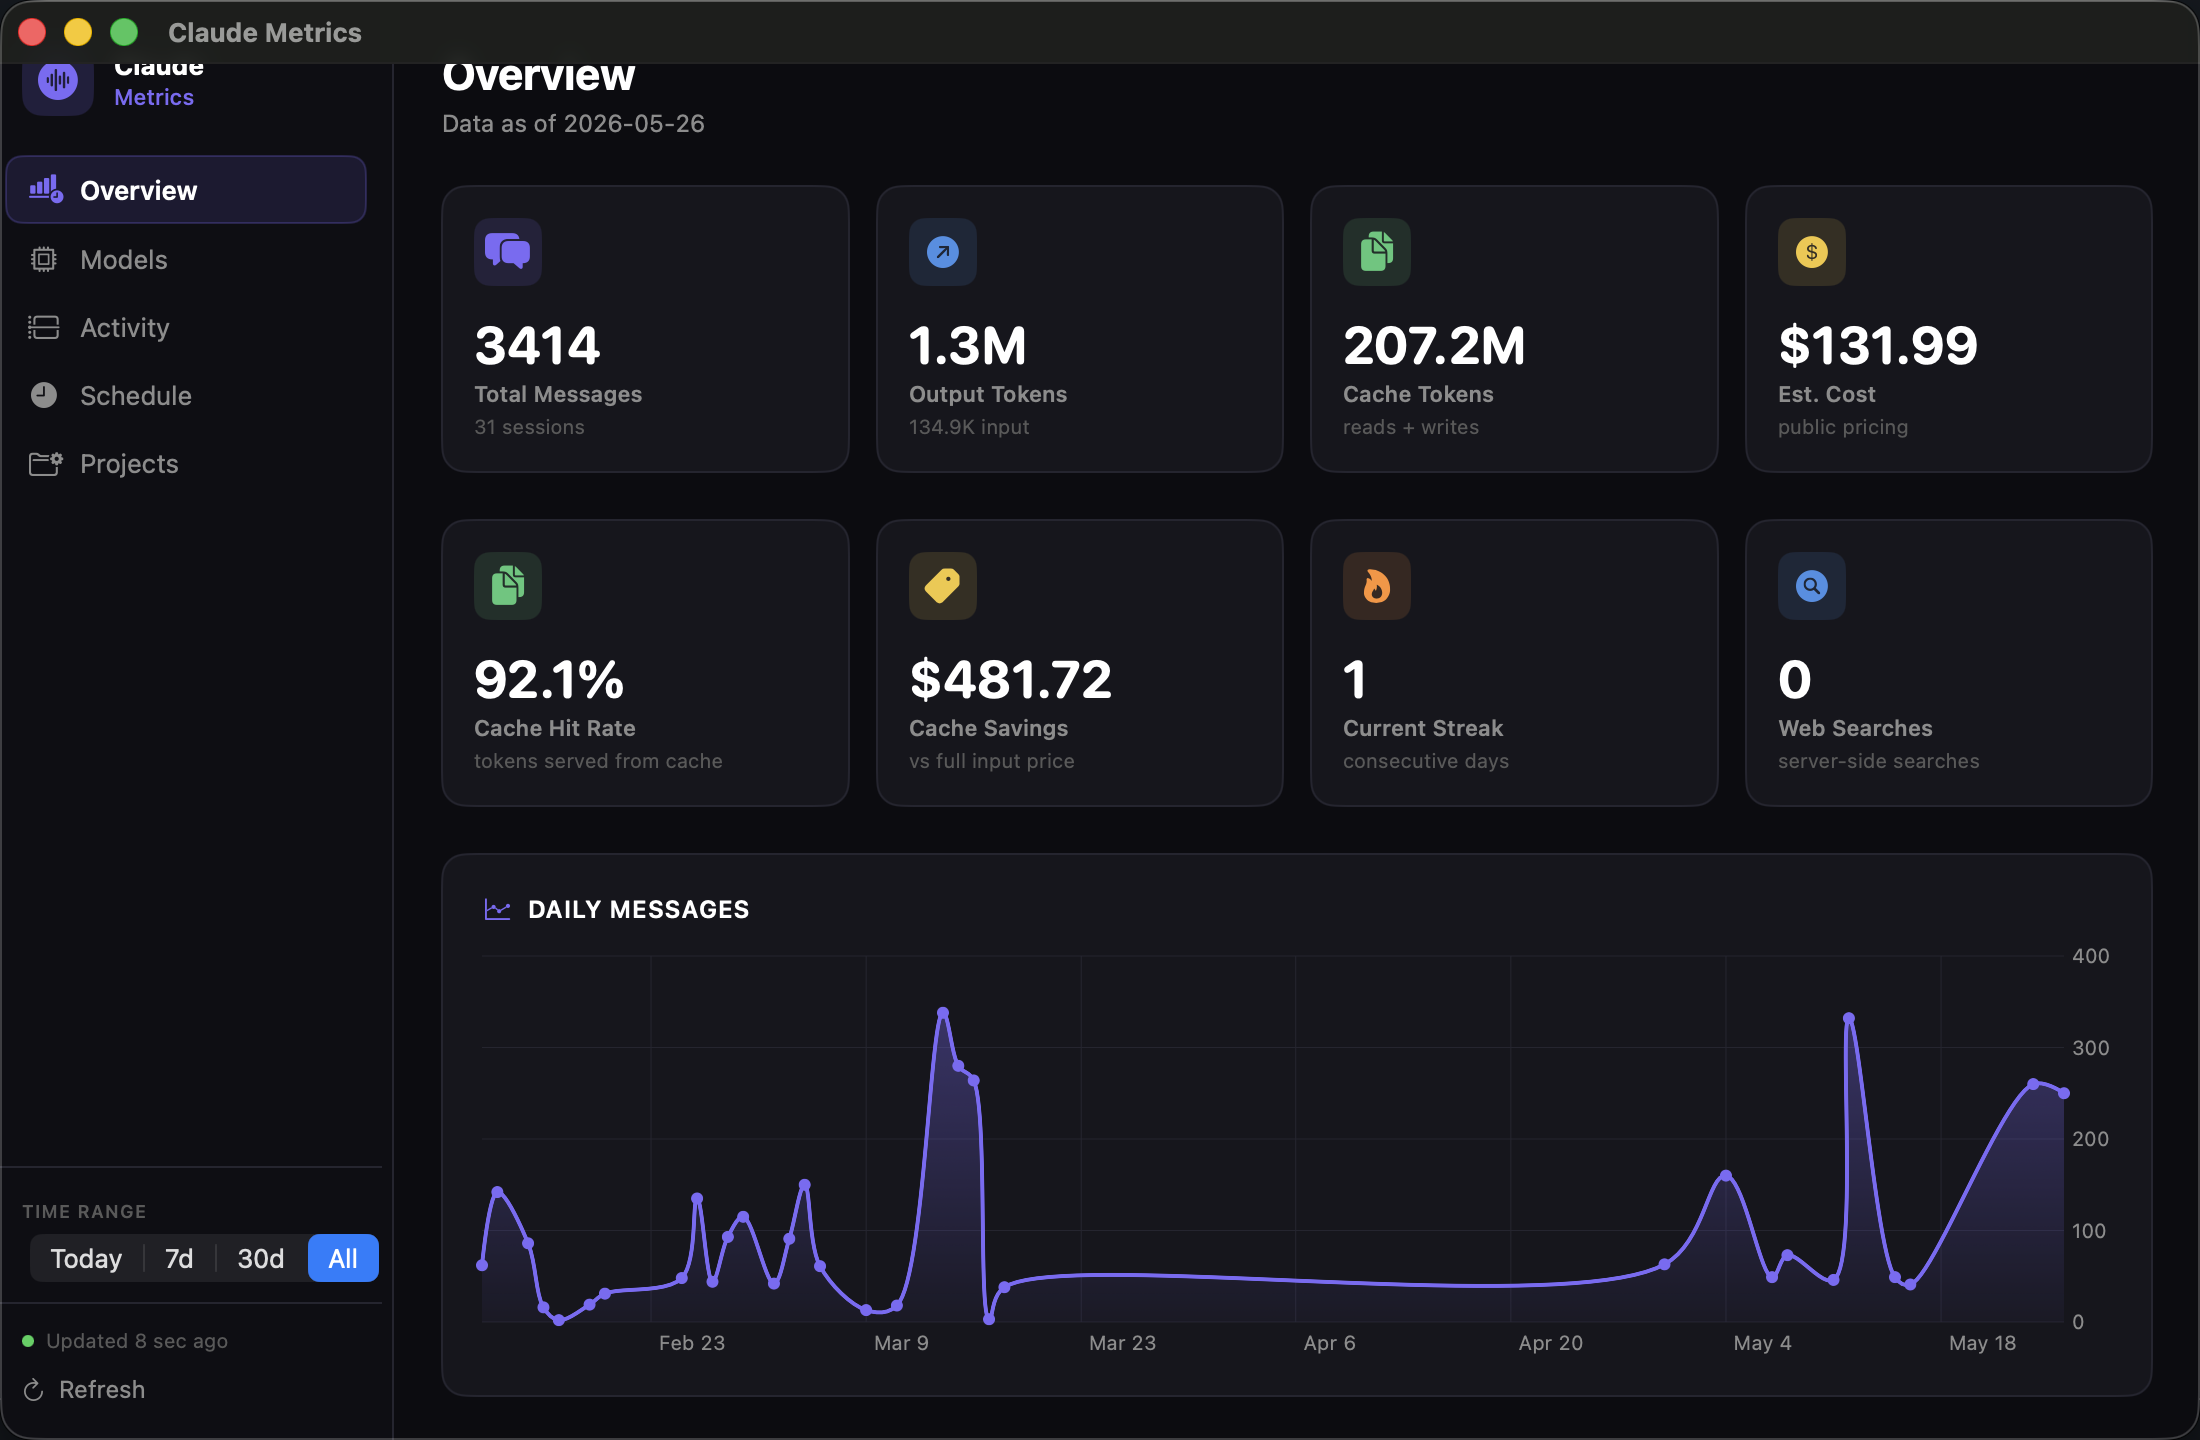
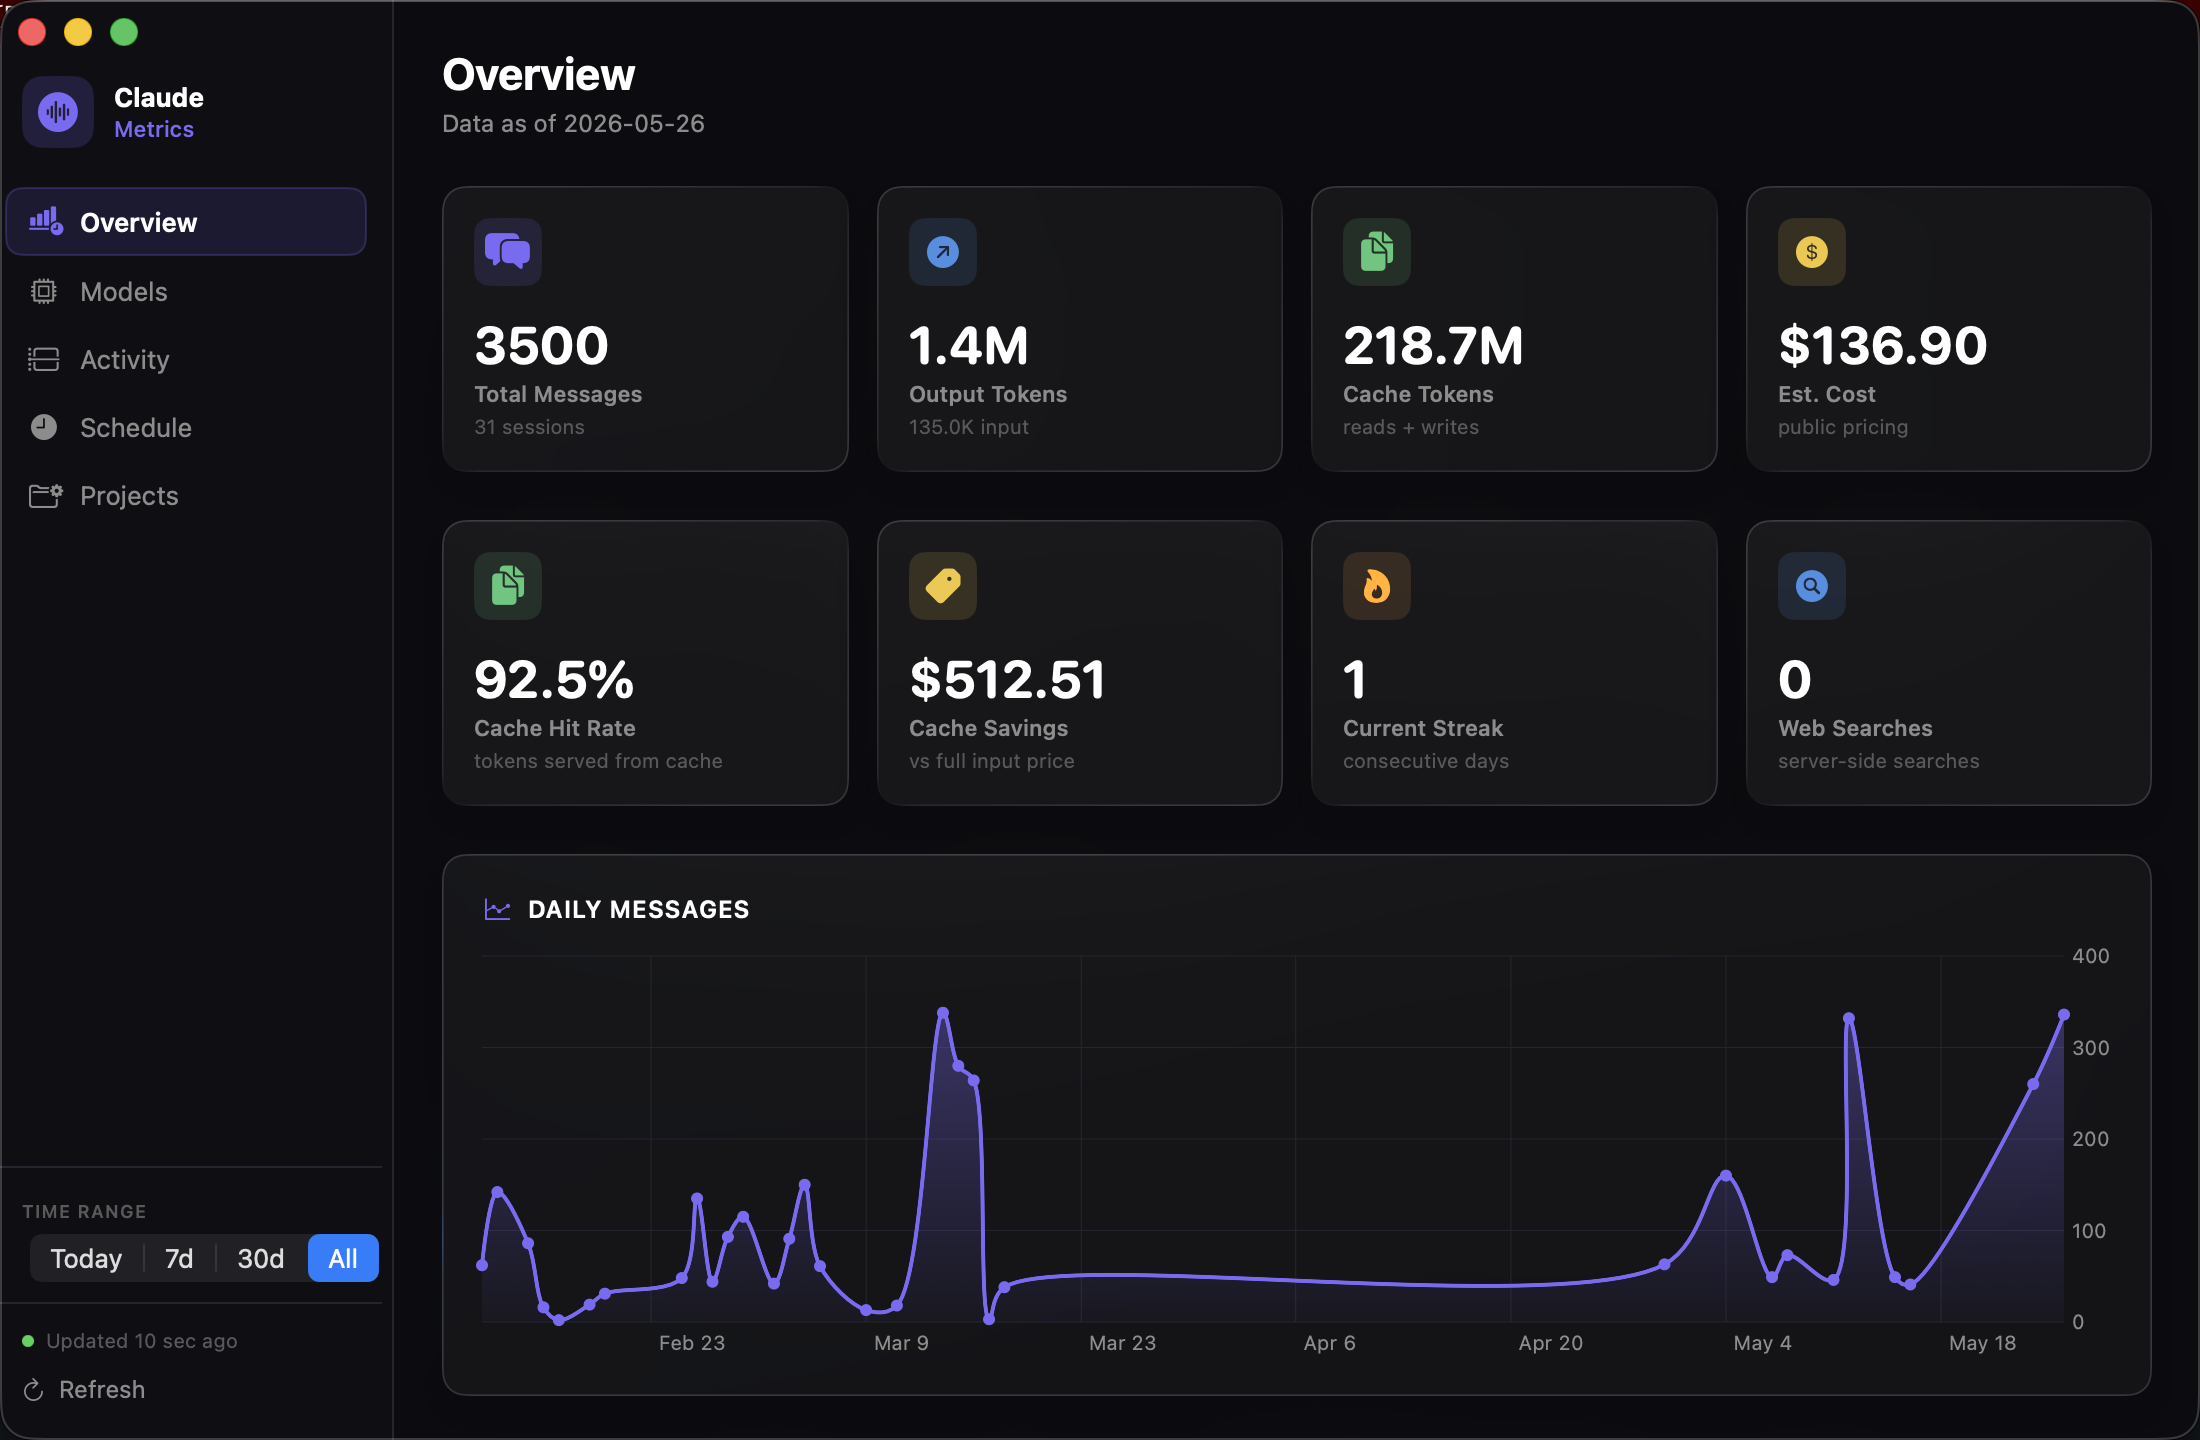
Liquid Glass UI + borderless window (macOS 26)
- Borderless window: .windowStyle(.hiddenTitleBar) + WindowConfigurator
  sets titlebarAppearsTransparent, fullSizeContentView, movableByWindowBackground
- Sidebar header top padding 22→38pt to clear traffic light buttons
- MetricCard and SectionCard now use .glassEffect(.regular) — macOS 26 Liquid Glass
- Build target updated to arm64-apple-macosx26.0
- Screenshot and docs updated

diff --git a/Sources/ClaudeMetrics/ContentView.swift b/Sources/ClaudeMetrics/ContentView.swift
@@ -1,4 +1,20 @@
 import SwiftUI
+import AppKit
+
+struct WindowConfigurator: NSViewRepresentable {
+    func makeNSView(context: Context) -> NSView {
+        let view = NSView()
+        DispatchQueue.main.async {
+            guard let w = view.window else { return }
+            w.titlebarAppearsTransparent = true
+            w.titleVisibility             = .hidden
+            w.styleMask.insert(.fullSizeContentView)
+            w.isMovableByWindowBackground = true
+        }
+        return view
+    }
+    func updateNSView(_ nsView: NSView, context: Context) {}
+}
 
 enum NavSection: String, CaseIterable, Identifiable {
     case overview = "Overview"
@@ -54,6 +70,7 @@ struct ContentView: View {
         }
         .background(Color.appBg)
         .ignoresSafeArea()
+        .background { WindowConfigurator() }
     }
 }
 
@@ -84,7 +101,7 @@ struct SidebarView: View {
                 }
             }
             .padding(.horizontal, 16)
-            .padding(.top, 22)
+            .padding(.top, 38)
             .padding(.bottom, 20)
 
             // Nav

diff --git a/Sources/ClaudeMetrics/Components.swift b/Sources/ClaudeMetrics/Components.swift
@@ -54,9 +54,7 @@ struct MetricCard: View {
         }
         .padding(16)
         .frame(maxWidth: .infinity, alignment: .leading)
-        .background(Color.appSurface)
-        .clipShape(RoundedRectangle(cornerRadius: 12))
-        .overlay(RoundedRectangle(cornerRadius: 12).stroke(Color.appBorder, lineWidth: 1))
+        .glassEffect(.regular, in: RoundedRectangle(cornerRadius: 12))
     }
 }
 
@@ -81,9 +79,7 @@ struct SectionCard<Content: View>: View {
         }
         .padding(20)
         .frame(maxWidth: .infinity, alignment: .leading)
-        .background(Color.appSurface)
-        .clipShape(RoundedRectangle(cornerRadius: 12))
-        .overlay(RoundedRectangle(cornerRadius: 12).stroke(Color.appBorder, lineWidth: 1))
+        .glassEffect(.regular, in: RoundedRectangle(cornerRadius: 12))
     }
 }
 

diff --git a/Sources/ClaudeMetrics/ClaudeMetricsApp.swift b/Sources/ClaudeMetrics/ClaudeMetricsApp.swift
@@ -11,6 +11,7 @@ struct ClaudeMetricsApp: App {
                 .preferredColorScheme(.dark)
                 .frame(minWidth: 900, idealWidth: 1100, minHeight: 600, idealHeight: 720)
         }
+        .windowStyle(.hiddenTitleBar)
         .defaultSize(width: 1100, height: 720)
         .windowResizability(.contentSize)
         .commands {

diff --git a/CLAUDE.md b/CLAUDE.md
@@ -6,11 +6,13 @@ Native macOS dark-themed app that monitors Claude Code usage metrics in real tim
 
 ```bash
 bash build.sh          # compile
-open ArgusAI.app # run
+open ArgusAI.app       # run
 ```
 
 **NEVER use `swift build`** — the project uses a hand-written `build.sh` with an explicit `SOURCES` array.  
 When adding a new `.swift` file, add it to the `SOURCES=(...)` list in `build.sh`.
+
+Build target is **macOS 26** (`-target arm64-apple-macosx26.0`). Required for Liquid Glass APIs (`glassEffect`).
 
 ## Architecture
 
@@ -43,6 +45,12 @@ Relevant JSONL fields (on `type == "assistant"` lines):
 `MetricsStore.dateFilter: DateFilter` (`.today` / `.sevenDays` / `.thirtyDays` / `.all`) drives all views.
 
 **Pattern:** every KPI has a `filteredXxx` computed property in `MetricsStore` that slices the relevant `[DailyXxx]` array from `StatsCache` by date, then aggregates. Never read raw all-time stats directly in views; always use the `filtered*` variant.
+
+## Window & UI style
+
+- Borderless window: `.windowStyle(.hiddenTitleBar)` in `ClaudeMetricsApp.swift` + `WindowConfigurator` (NSViewRepresentable) in `ContentView.swift`
+- Sidebar top padding is **38pt** to clear the traffic light buttons
+- Cards use **macOS 26 Liquid Glass**: `.glassEffect(.regular, in: RoundedRectangle(cornerRadius: 12))` — use this for any new card component, never `Color.appSurface` + clipShape
 
 When adding a new filter-aware property, add all four cases to the switch. `.today` uses `Calendar.current.startOfDay(for: Date())` as cutoff; `.sevenDays` / `.thirtyDays` use `Calendar.current.date(byAdding: .day, value: -N, to: Date())`.
 

diff --git a/README.md b/README.md
@@ -26,7 +26,7 @@ Everything updates automatically every 3 seconds. No API key needed. No account.
 
 ## Requirements
 
-- macOS 14 (Sonoma) or later
+- macOS 26 (Tahoe) or later
 - Apple Silicon Mac (M1 or later)
 - [Claude Code](https://claude.ai/code) installed and used at least once
 
@@ -118,4 +118,4 @@ All tabs (Overview, Models, Activity, Schedule, Projects) update when you change
 → The app auto-refreshes every 3 seconds. If you just finished a session, wait a moment. You can also click **Refresh** in the sidebar.
 
 **App won't launch on my Mac**
-→ This build requires Apple Silicon (M1/M2/M3/M4) and macOS 14+. Intel Macs are not supported in the current release.
+→ This build requires Apple Silicon (M1/M2/M3/M4) and macOS 26 (Tahoe). Intel Macs are not supported in the current release.